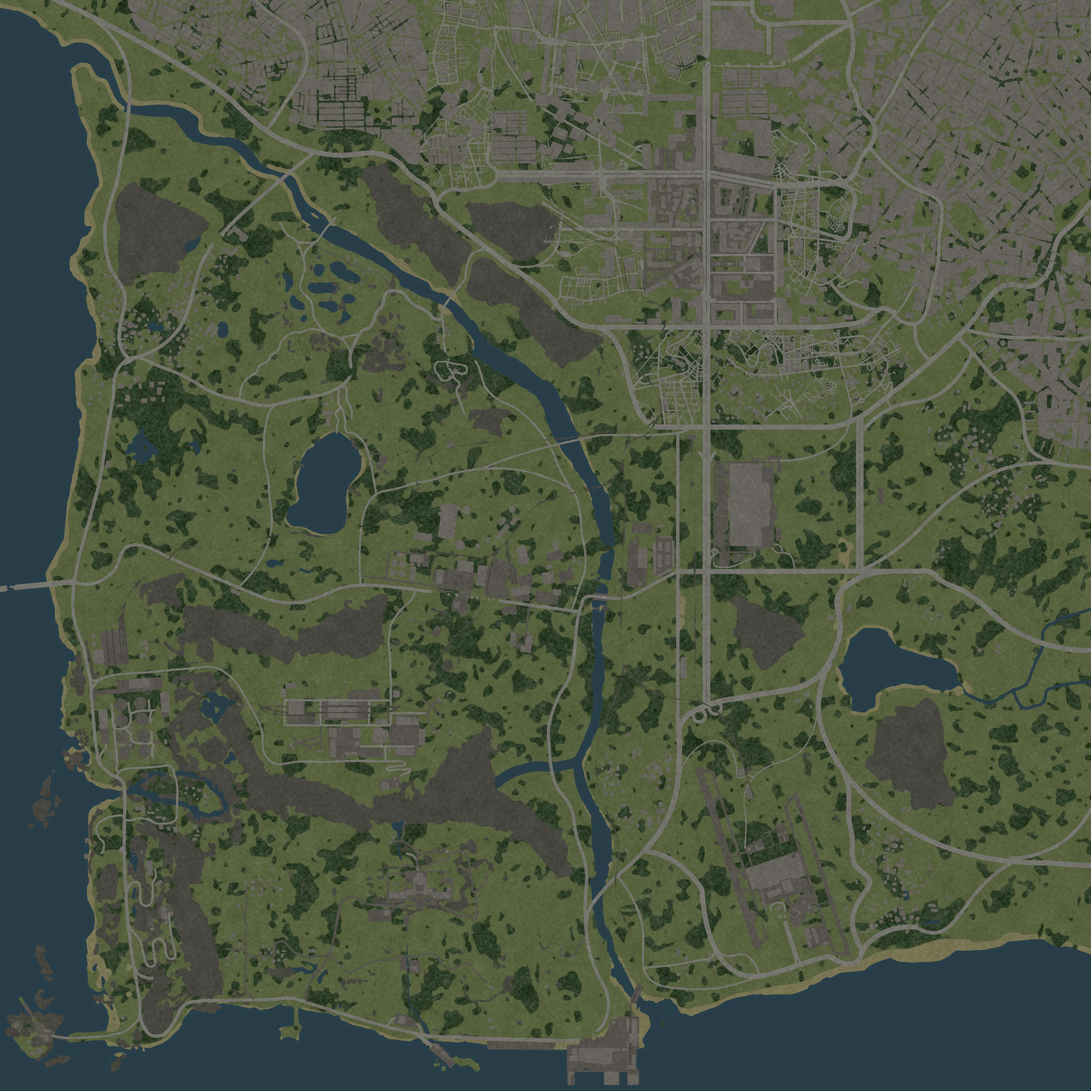
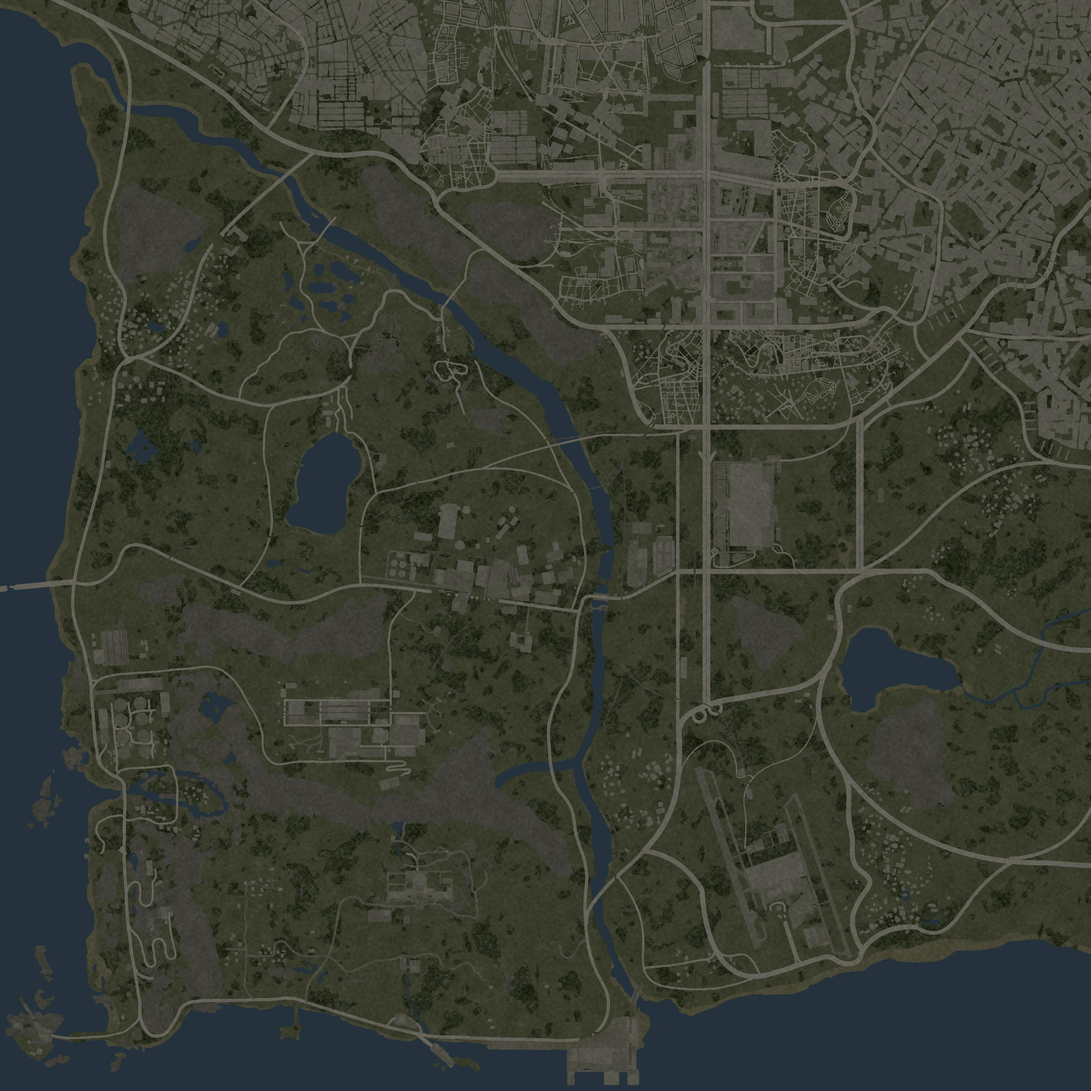
«Все локации» on «Спутник»: one whole map, no black squares
Owner 17.11.2026 (iPhone screenshot): «чтобы не было отдельных кусков,
сделай основную карту под цвет наших карт и не должно быть черных кусков».

- WebKit draws no canvas `filter`, so the black around each render stayed
  and every edge was hard. The mask is now made from the picture's own
  pixels (tiles load with CORS from our map copy) and blurred in plain
  code; a render's edge fades wholly inwards. The filters stay as the
  fallback where pixels cannot be read.
- region-satellite.webp redrawn in the renders' own colours (k-means of
  seven main renders): the first palette was far brighter and greener.
- A location with no render (Terminal) shows its scheme in those colours.

diff --git a/src/maps/worldMapPictures.ts b/src/maps/worldMapPictures.ts
@@ -14,6 +14,11 @@ import type { WorldPoint, WorldTile } from './worldMap'
  * mask are kept, so a second picture of the same scheme costs one drawing.
  */
 const FEATHER = 0.012
+/**
+ * A render's edge fades wider and wholly inwards: its square must not show on the drawing (owner, 17.11.2026: «чтобы не было
+ * отдельных кусков… сделай в точности как на схеме»).
+ */
+const RENDER_FEATHER = 0.035
 /** The fade mask is blurred small and stretched: the same soft edge for any size of picture, for little work. */
 const MASK_SIDE = 512
 
@@ -78,10 +83,71 @@ function blackToClearFilter() {
 }
 
 /**
+ * Box blur of a mask in place, three passes (near a Gaussian), the outside of the picture counted as empty.
+ */
+export function blurMask(mask: Float32Array, width: number, height: number, radius: number) {
+  const line = new Float32Array(Math.max(width, height))
+  const pass = (count: number, length: number, at: (i: number, k: number) => number) => {
+    for (let i = 0; i < count; i += 1) {
+      for (let k = 0; k < length; k += 1) line[k] = mask[at(i, k)]!
+      let sum = 0
+      for (let k = 0; k <= Math.min(radius, length - 1); k += 1) sum += line[k]!
+      for (let k = 0; k < length; k += 1) {
+        mask[at(i, k)] = sum / (2 * radius + 1)
+        if (k + radius + 1 < length) sum += line[k + radius + 1]!
+        if (k - radius >= 0) sum -= line[k - radius]!
+      }
+    }
+  }
+  for (let n = 0; n < 3; n += 1) {
+    pass(height, width, (y, x) => y * width + x)
+    pass(width, height, (x, y) => y * width + x)
+  }
+}
+
+/**
+ * The mask from the picture's own pixels (owner, 17.11.2026, the iPhone: «не должно быть черных кусков»): WebKit draws no canvas
+ * `filter`, so the SVG filter and the blur below did nothing there — the black around a render stayed and every edge was hard.
+ * Alpha (and, `dark`, the near-black of a render counted as outside: the same 6 × (r + g + b) − 0.18 as the SVG filter), blurred
+ * in plain code. A render's mask then fades wholly inwards, so its edge is clear. Null where the pixels cannot be read.
+ */
+function readMask(small: HTMLCanvasElement, dark: boolean): HTMLCanvasElement | null {
+  const context = small.getContext('2d', { willReadFrequently: true })
+  if (!context) return null
+  let image: ImageData
+  try { image = context.getImageData(0, 0, small.width, small.height) } catch { return null }
+  const { data, width, height } = image
+  const mask = new Float32Array(width * height)
+  for (let i = 0; i < mask.length; i += 1) {
+    const alpha = data[i * 4 + 3]! / 255
+    const lit = dark ? Math.min(1, Math.max(0, (6 * (data[i * 4]! + data[i * 4 + 1]! + data[i * 4 + 2]!)) / 255 - 0.18)) : 1
+    mask[i] = alpha * lit
+  }
+  blurMask(mask, width, height, Math.max(2, Math.round(Math.max(width, height) * (dark ? RENDER_FEATHER : FEATHER))))
+  for (let i = 0; i < mask.length; i += 1) {
+    const value = dark ? Math.min(1, Math.max(0, mask[i]! * 2 - 1)) : mask[i]!
+    data[i * 4] = 255
+    data[i * 4 + 1] = 255
+    data[i * 4 + 2] = 255
+    data[i * 4 + 3] = Math.round(value * 255)
+  }
+  context.putImageData(image, 0, 0)
+  return small
+}
+
+/**
  * The picture's own alpha, small and blurred: multiplied in, it fades the outline inwards and keeps the inside sharp. `dark`: the
  * near-black around a render counts as outside too.
  */
 function fadeMask(picture: CanvasImageSource, width: number, height: number, dark = false) {
+  const scale = MASK_SIDE / Math.max(width, height)
+  const plain = canvasOf(width * scale, height * scale)
+  plain.getContext('2d', { willReadFrequently: true })?.drawImage(picture, 0, 0, plain.width, plain.height)
+  return readMask(plain, dark) ?? filteredMask(picture, width, height, dark)
+}
+
+/** The first way, by canvas filters: where the pixels cannot be read (a render loaded without CORS). */
+function filteredMask(picture: CanvasImageSource, width: number, height: number, dark: boolean) {
   const scale = MASK_SIDE / Math.max(width, height)
   const small = canvasOf(width * scale, height * scale)
   const smallContext = small.getContext('2d')
@@ -126,8 +192,9 @@ function keep(key: string, canvas: HTMLCanvasElement) {
  * The scheme's `floor` (as «Карты» draws it), `width` × `height` px, faded at its outline; no `url`, or `width` 0: none. While a
  * new picture is being made the last one stays (owner, 15.11.2026: «при масштабировании карта прыгает»).
  */
-export function useSchemePicture(url: string | undefined, layers: MapFloorLayer[], floor: string, removed: readonly string[], width: number, height: number): HTMLCanvasElement | null {
-  const key = url && width > 0 ? `${url}|${floor}|${removed.join(',')}|${Math.round(width)}x${Math.round(height)}` : ''
+export function useSchemePicture(url: string | undefined, layers: MapFloorLayer[], floor: string, removed: readonly string[], width: number, height: number,
+  satellite = false): HTMLCanvasElement | null {
+  const key = url && width > 0 ? `${url}|${floor}|${removed.join(',')}|${Math.round(width)}x${Math.round(height)}${satellite ? '|satellite' : ''}` : ''
   const [shown, setShown] = useState<{ key: string; canvas: HTMLCanvasElement } | null>(null)
   useEffect(() => {
     if (!key) return
@@ -143,6 +210,7 @@ export function useSchemePicture(url: string | undefined, layers: MapFloorLayer[
       }
       const picture = faded(image, await mask, width, height)
       if (!picture) return
+      if (satellite) satelliteTone(picture)
       keep(key, picture)
       if (alive) setShown({ key, canvas: picture })
     })().catch((error) => console.error('Unable to draw the world map picture', error))
@@ -152,13 +220,57 @@ export function useSchemePicture(url: string | undefined, layers: MapFloorLayer[
   return key ? made.get(key) ?? shown?.canvas ?? null : null
 }
 
-/** A tile picture, loaded as a plain image: no CORS needed, it is only drawn, never read back. */
-function tileImage(url: string): Promise<HTMLImageElement | null> {
+/**
+ * A scheme in the colours of «Спутник» (owner, 17.11.2026: «под нашу цветовую схему спутника»): a location with no render
+ * (Terminal) is drawn as its scheme, and its light-blue sea and teal ground stood out as a square. By the scheme's own
+ * lightness, onto the ramp of the renders' colours (scripts/world-map/make-world-map.py SATELLITE); its water onto their water.
+ */
+export const SATELLITE_RAMP: ReadonlyArray<readonly [number, readonly [number, number, number]]> = [
+  [0, [34, 38, 26]], [0.3, [57, 60, 43]], [0.6, [86, 84, 76]], [1, [124, 121, 110]],
+]
+export const SATELLITE_WATER: readonly [number, number, number] = [36, 50, 60]
+
+export function satelliteColour(r: number, g: number, b: number): [number, number, number] {
+  const light = (0.299 * r + 0.587 * g + 0.114 * b) / 255
+  if (b > r + 25 && b > g + 5) {
+    const shade = 0.85 + 0.4 * light
+    return [SATELLITE_WATER[0] * shade, SATELLITE_WATER[1] * shade, SATELLITE_WATER[2] * shade].map(Math.round) as [number, number, number]
+  }
+  let index = 1
+  while (index < SATELLITE_RAMP.length - 1 && light > SATELLITE_RAMP[index]![0]) index += 1
+  const [at0, from] = SATELLITE_RAMP[index - 1]!
+  const [at1, to] = SATELLITE_RAMP[index]!
+  const t = Math.min(1, Math.max(0, (light - at0) / (at1 - at0)))
+  return [0, 1, 2].map((c) => Math.round(from[c]! + (to[c]! - from[c]!) * t)) as [number, number, number]
+}
+
+function satelliteTone(canvas: HTMLCanvasElement) {
+  const context = canvas.getContext('2d')
+  if (!context) return
+  let image: ImageData
+  try { image = context.getImageData(0, 0, canvas.width, canvas.height) } catch { return }
+  const { data } = image
+  for (let i = 0; i < data.length; i += 4) {
+    if (!data[i + 3]) continue
+    const [r, g, b] = satelliteColour(data[i]!, data[i + 1]!, data[i + 2]!)
+    data[i] = r
+    data[i + 1] = g
+    data[i + 2] = b
+  }
+  context.putImageData(image, 0, 0)
+}
+
+/**
+ * A tile picture. With CORS (our map copy answers `Access-Control-Allow-Origin: *`), so the stitched picture can be read for its
+ * mask; a host without it gets a plain image, drawn but never read (the mask then comes from canvas filters).
+ */
+function tileImage(url: string, cors = true): Promise<HTMLImageElement | null> {
   return new Promise((resolve) => {
     const image = new Image()
     image.decoding = 'async'
+    if (cors) image.crossOrigin = 'anonymous'
     image.onload = () => resolve(image)
-    image.onerror = () => resolve(null)
+    image.onerror = () => { if (cors) void tileImage(url, false).then(resolve); else resolve(null) }
     image.src = url
   })
 }

diff --git a/src/maps/worldMapPictures.test.ts b/src/maps/worldMapPictures.test.ts
@@ -1,0 +1,33 @@
+import { describe, expect, it } from 'vitest'
+import { SATELLITE_RAMP, SATELLITE_WATER, blurMask, satelliteColour } from './worldMapPictures'
+
+describe('«Все локации» on «Спутник» without canvas filters (owner, 17.11.2026: the iPhone showed black squares)', () => {
+  it('blurs a mask in plain code, the outside counted as empty', () => {
+    const width = 20
+    const mask = new Float32Array(width * width).fill(1)
+    blurMask(mask, width, width, 2)
+    const at = (x: number, y: number) => mask[y * width + x]!
+    // the middle stays full, the edge fades, the corner most
+    expect(at(10, 10)).toBeCloseTo(1, 5)
+    expect(at(0, 10)).toBeLessThan(0.75)
+    expect(at(0, 0)).toBeLessThan(at(0, 10))
+    // a lone point spreads and keeps its sum
+    const dot = new Float32Array(width * width)
+    dot[10 * width + 10] = 1
+    blurMask(dot, width, width, 2)
+    expect(dot.reduce((sum, value) => sum + value, 0)).toBeCloseTo(1, 5)
+    expect(dot[10 * width + 10]).toBeLessThan(0.2)
+  })
+
+  it('a scheme with no render (Terminal) takes the renders\' colours: its sea their water, its ground their ramp', () => {
+    // the scheme's light-blue sea
+    const sea = satelliteColour(120, 170, 220)
+    expect(sea[2]).toBeGreaterThan(sea[0])
+    expect(sea[0]).toBeLessThanOrEqual(SATELLITE_WATER[0] * 1.25 + 1)
+    // dark teal ground → dark olive, white buildings → the lightest of the ramp
+    const ground = satelliteColour(31, 80, 84)
+    expect(ground[1]).toBeGreaterThanOrEqual(ground[2])
+    expect(satelliteColour(255, 255, 255)).toEqual([...SATELLITE_RAMP.at(-1)![1]])
+    expect(satelliteColour(0, 0, 0)).toEqual([...SATELLITE_RAMP[0]![1]])
+  })
+})

diff --git a/src/maps/WorldMapView.tsx b/src/maps/WorldMapView.tsx
@@ -215,8 +215,9 @@ function LocationPicturesOf({ map, placement, floor, view, close, phone, onChang
   const [lightWidth, lightHeight] = pictureSize(placement, false, phone)
   const [closeWidth, closeHeight] = pictureSize(placement, true, phone)
   const scheme = tiles ? undefined : map.imageUrl
-  const light = useSchemePicture(scheme, layers, floor, removed, lightWidth, lightHeight)
-  const detailed = useSchemePicture(scheme, layers, floor, removed, close ? closeWidth : 0, closeHeight)
+  // a location with no render on «Спутник» (Terminal) shows its scheme in the renders' colours
+  const light = useSchemePicture(scheme, layers, floor, removed, lightWidth, lightHeight, view === 'satellite')
+  const detailed = useSchemePicture(scheme, layers, floor, removed, close ? closeWidth : 0, closeHeight, view === 'satellite')
   // the floor's own render tiles, else the main render
   const tileMap = useMemo(() => ({ ...map, tileUrl: map.layers?.find((layer) => layer.name === floor)?.tileUrl ?? map.tileUrl }), [map, floor])
   const lightTiles = useMemo(() => (tiles ? worldTiles(tileMap, placement, Math.max(lightWidth, lightHeight)) : []), [tiles, tileMap, placement, lightWidth, lightHeight])

diff --git a/scripts/world-map/make-world-map.py b/scripts/world-map/make-world-map.py
@@ -48,17 +48,20 @@ PAINT = {
   'field': (44, 90, 90),
   'trail': (120, 98, 66),     # .gravel #946d3e, darker
 }
-# «Спутник»: the colours of the ground from above, near the locations' renders
+# «Спутник»: the colours of the locations' renders themselves (owner, 17.11.2026: «сделай основную карту под цвет наших карт»),
+# from the main renders of seven locations (k-means of their non-black pixels: olive (49, 53, 36) and (60, 61, 47) most,
+# dark crowns (39, 42, 29), ground and concrete (72, 71, 62) and (87, 85, 75)). The first palette was far brighter and greener
+# (meadow (88, 98, 62)), so every render stood out on it as a dark square.
 SATELLITE = {
-  'meadow': (88, 98, 62),
-  'forest': (46, 62, 40),
-  'building': (104, 100, 94),
-  'water': (40, 62, 74),
-  'rock': (72, 70, 64),
-  'road': (118, 116, 110),
-  'rail': (86, 82, 76),
-  'field': (120, 116, 82),
-  'trail': (122, 104, 76),
+  'meadow': (57, 60, 43),
+  'forest': (40, 45, 30),
+  'building': (86, 84, 76),
+  'water': (36, 50, 60),
+  'rock': (64, 63, 56),
+  'road': (100, 98, 89),
+  'rail': (76, 74, 66),
+  'field': (72, 71, 54),
+  'trail': (84, 76, 58),
 }
 # how much each kind is smoothed (px of the 4096 picture): areas a lot, lines and houses little
 SMOOTH = {'meadow': 6, 'forest': 6, 'water': 2.5, 'rock': 3, 'field': 5, 'trail': 1.2, 'road': 1.1, 'rail': 1.1, 'building': 1.3}
